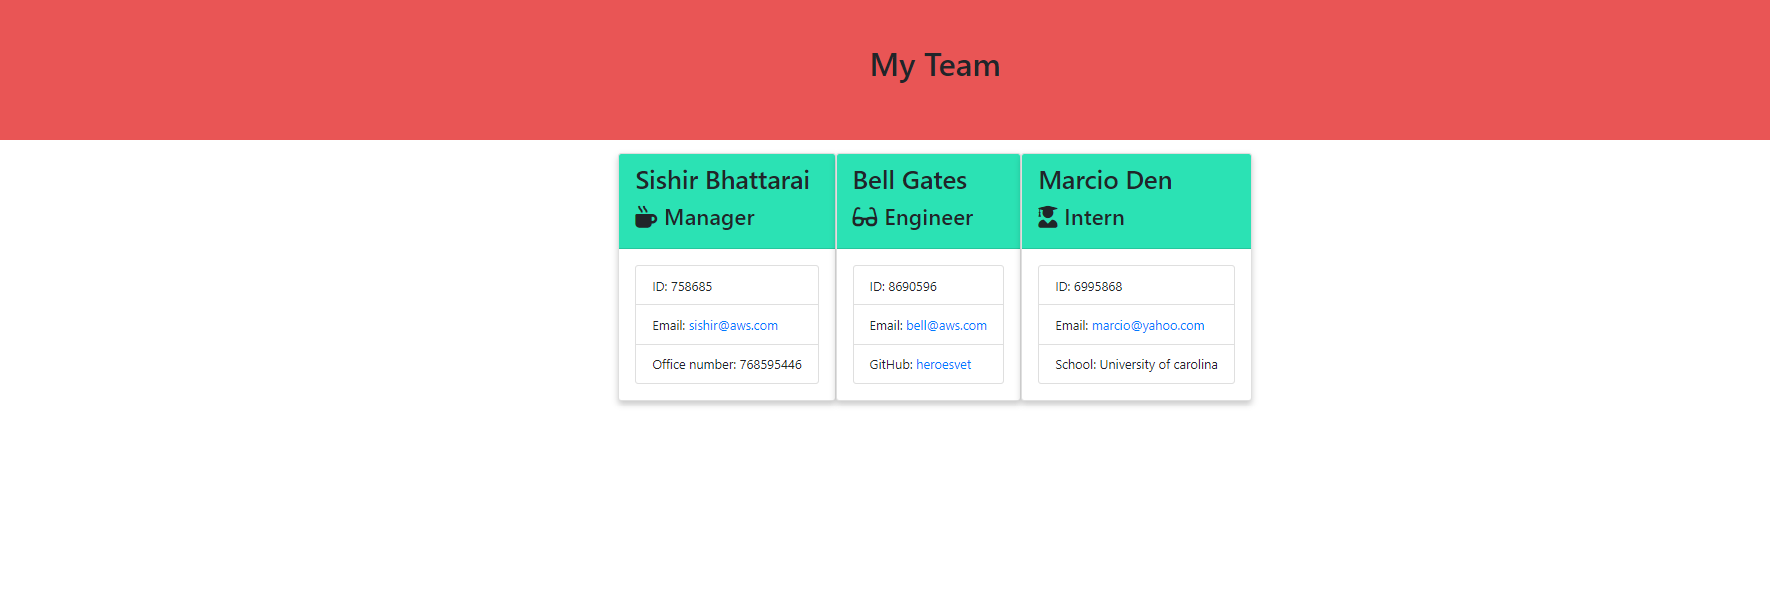
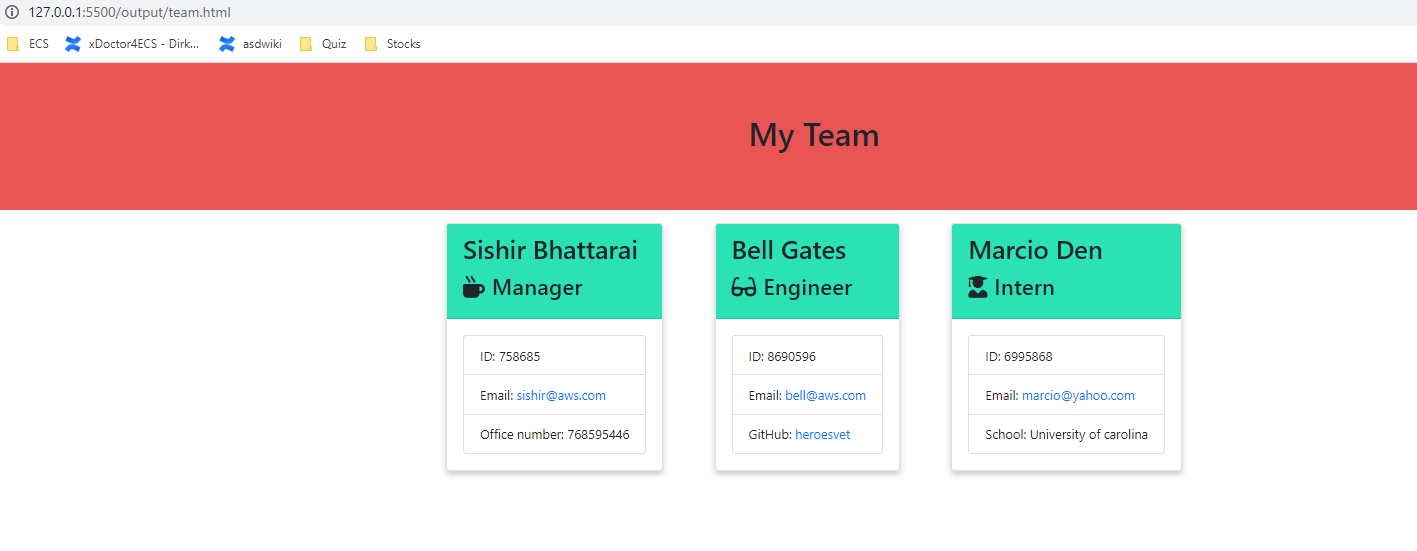
fixed README

diff --git a/output/style.css b/output/style.css
@@ -12,4 +12,9 @@
     transition: 0.3s;
   }
 
+.card{
+    margin-bottom: 10px;
+    margin-inline: 2rem;
+}
+
  
